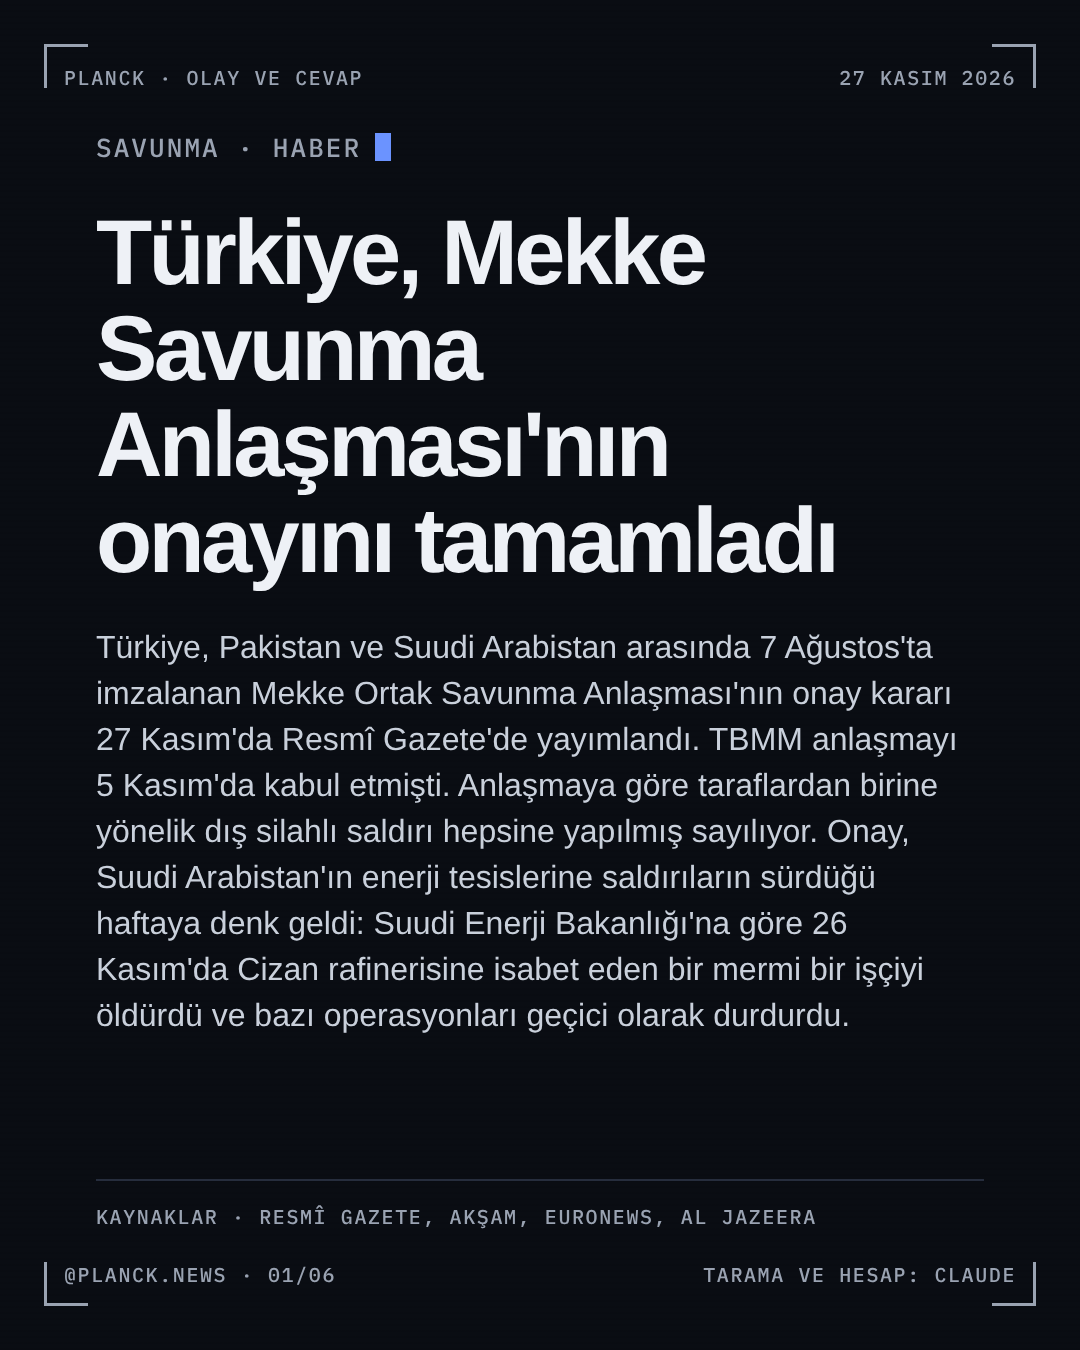
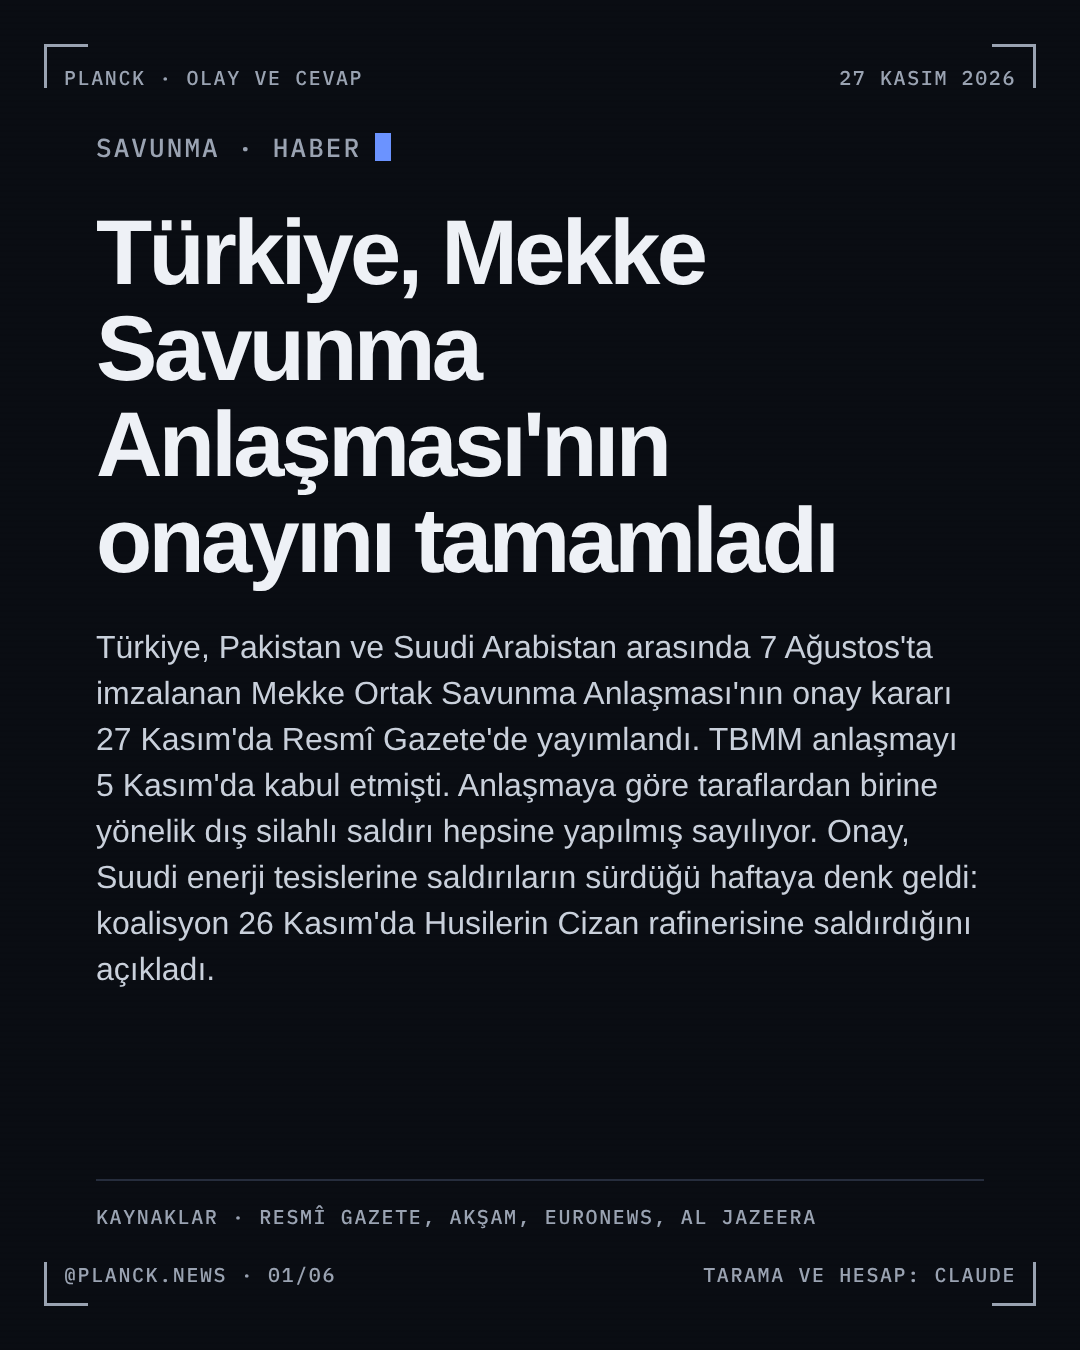
Sabah turu 27.11: Mekke 11:00 + Reel 12:00; haftalık özet W48
Claude-Session: https://claude.ai/code/session_01QCGPWJJC6juFjd743twhsh

Changed region(s): [[0.0917, 0.6222, 0.9167, 0.7778]]

diff --git a/ekip/haftalik/2026-W48.md b/ekip/haftalik/2026-W48.md
@@ -1,0 +1,38 @@
+# Haftalık özet · W48 (23–27 Kasım 2026)
+
+## Yayınlar (@planck.news)
+| Gün | Saat | Gönderi |
+|---|---|---|
+| Pzr 23.11 | 11:00 | Olay ve Cevap: Nvidia CEO'suz kaldı (ilk senaryo sayfası) |
+| Pzr 23.11 | 13:00 | Haftanın Soruları (ilk Reel) |
+| Pzr 23.11 | 21:30 | Günün Dosyası (Huang döndü: Dedik %15 · Oldu) |
+| Pzt–Sal 24–25.11 | — | **Boşluk: kullanım limiti, tarama çalışmadı** |
+| Çrş 25.11 | 19:30 / 20:15 / 21:00 | Motorin ikinci indirim + Reel + Dosya |
+| Prş 26.11 | 17:40 / 18:40 / 23:00 | ABD çekirdek enflasyon (ilk 6 sayfa, Uzman Okuması) + Reel + Dosya (Brent düzeltmesi) |
+| Cum 27.11 | 11:00 / 12:00 / 21:00 | Mekke Savunma Anlaşması + Reel + Dosya |
+
+## Dedik / Oldu (bu hafta kapananlar)
+- Huang 31 Aralık'a kadar döner mi? **Dedik %15 · Oldu** (23.11). Brier 0,72.
+- Nvidia kalıcı CEO açıklar mı? **Dedik %25 · Oldu** (23.11). Brier 0,56.
+- Toplam kapanış az; 30 kapanıştan önce isabet yorumu yok (Anayasa §5).
+
+## Hatalar ve düzeltmeler
+- **Brent 87,5 $ (25.11):** gerçek kapanış 94,6 $. Brent soruları Motor ile yeniden hesaplandı (100 $ dokunma %31→%69, yıl sonu <90 $ %55→%33). 26.11 Dosya'da açık düzeltme. 25.11 gönderisine not: Yusuf kararı bekliyor.
+- **Yaptırım maddesi (25.11 Dosya):** "22 kuruluş 8 kişi" doğrulanamadı → düzeltildi.
+- **Cizan "işçi öldü" (27.11 taslak):** doğrulanamadı → yayından önce çıkarıldı.
+- **Kaçan yuvalar:** tarayıcı onay beklemesi ve yarım kalan turlar yüzünden 25.11 17:30, 26.11 11:00 ve 21:00 kaydı.
+
+## Yöntem değişiklikleri (Yusuf kararları)
+- Amaç beyanı Anayasa'ya eklendi (25.11).
+- **Uzman Okuması** sayfası (TARAMA §6c, 25.11): Olay ve Cevap 6 sayfa. Uzman satırlarında "halk" (okur değil).
+- 2031 risk listesi açık soru tavanına dahil değil.
+- Neden Yanıldık #1 → Quant açılışında ilk içerik; #2 → Quant arşivi, yayın yok.
+- last30days becerisi eklendi; ağ izni ≈28.11'de Yusuf'ta.
+
+## PILOT ilerleme
+- Hikâye klasörleri: 10/20 dolu.
+- Uzman Okuması 2 gönderide kullanıldı.
+- Bekleyen: Ses ve İz (last30days ağ iznine bağlı), Taban Oranı (Çrş), portföy (11 soru).
+
+## Gelecek hafta kritik tarihler
+29.11 OPEC+ · 1.12 ÖTV artışı ve motorin-95 kapanışı · 3.12 Kasım TÜFE · 8–9.12 FOMC · 12.12 TCMB.

diff --git a/ekip/PILOT.md b/ekip/PILOT.md
@@ -22,7 +22,7 @@ Yayın turları (sabah 08:00, akşam 20:40) her çalışmada bu dosyayı okur, o
 
 ## Hafta 2 · 24–30 Kas — yeni biçim yayında
 - [ ] Yeni sunum standardı + kare dizisi + yeni künye bütün gönderilerde
-- [ ] Pzt Haftanın Soruları ([x] 23.11 ilk Reel, `posts/2026-W48-sorular`; scripts/reel.js kicker/sub/footer parametreli) · Çrş Taban Oranı · Prş ilk Ses ve İz · Cuma ilk Dedik / Oldu
+- [ ] Pzt Haftanın Soruları ([x] 23.11 ilk Reel, `posts/2026-W48-sorular`; scripts/reel.js kicker/sub/footer parametreli) · Çrş Taban Oranı · Prş ilk Ses ve İz · Cuma ilk Dedik / Oldu ([x] 27.11 haftalık özet dosyası `ekip/haftalik/2026-W48.md`, Dedik/Oldu bölümüyle)
 
 ## Hafta 3 · 1–7 Ara
 - [ ] İlk "Sen Yüzde Kaç Dersin?" anketi
